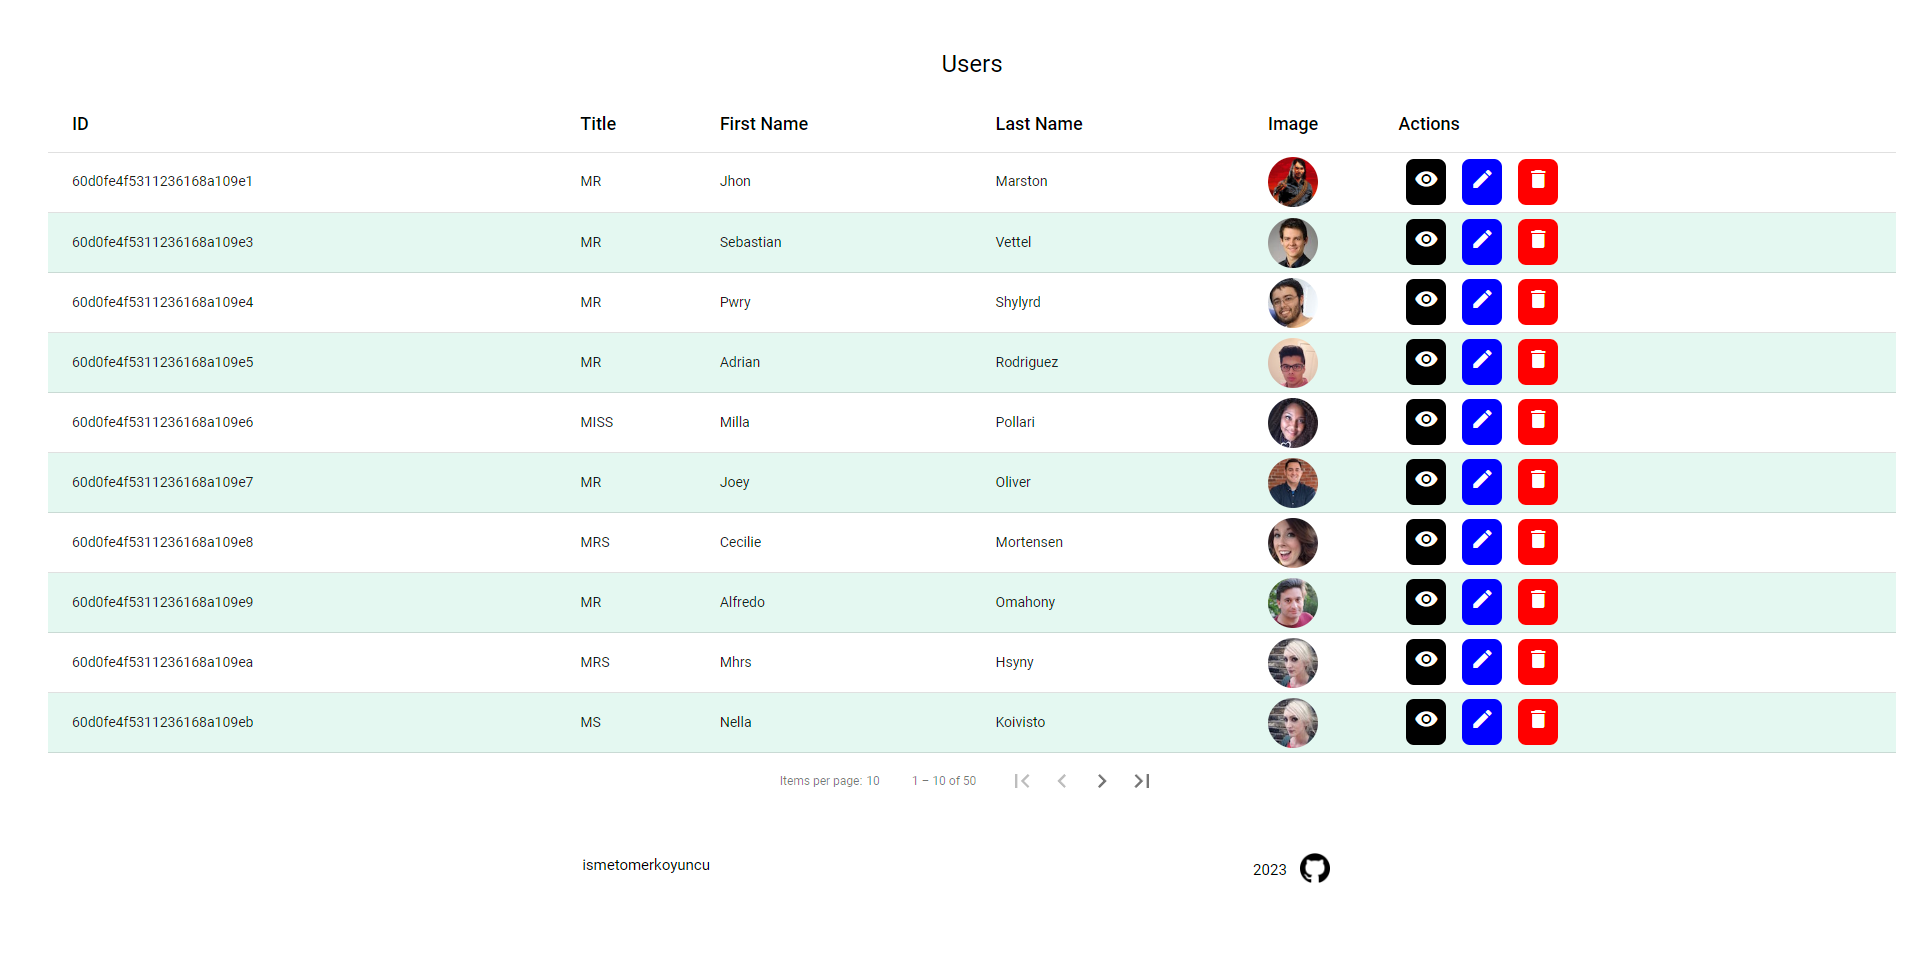
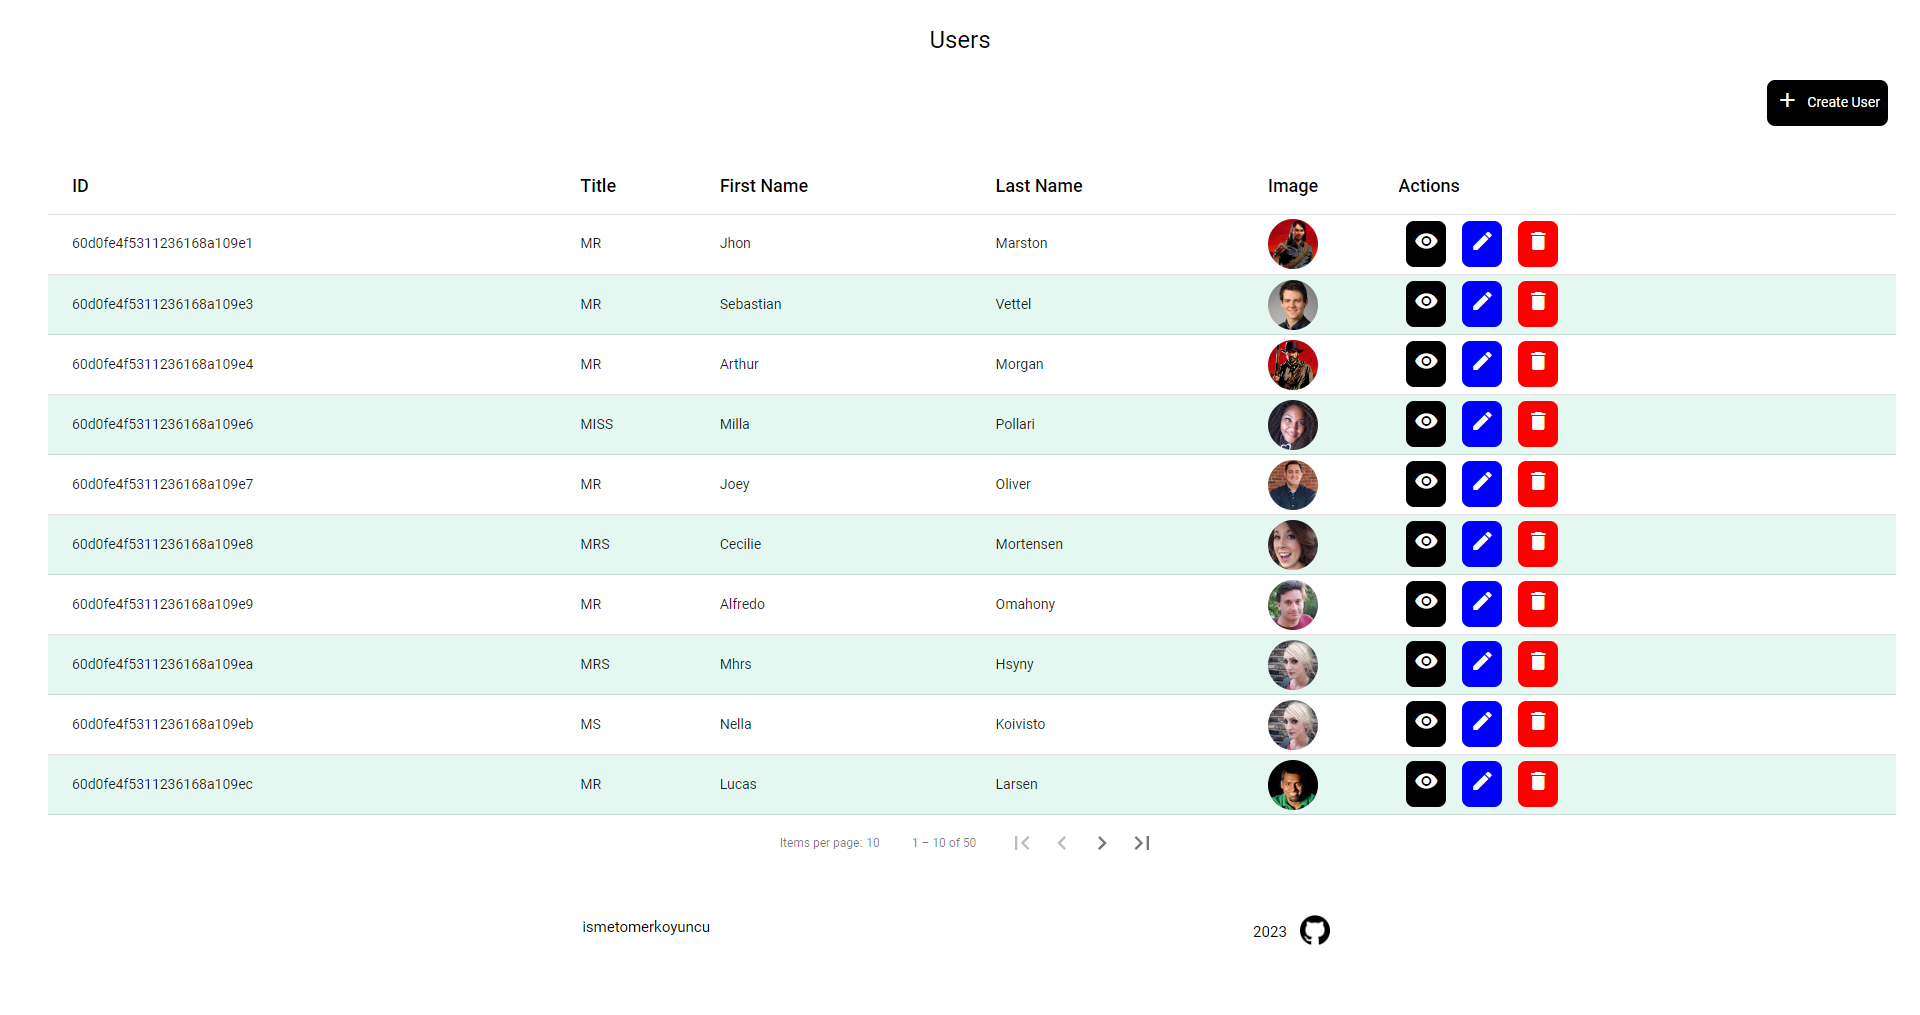
feat: added create-user component

diff --git a/src/app/pages/create-user/create-user.component.html b/src/app/pages/create-user/create-user.component.html
@@ -1,0 +1,73 @@
+<div
+  userForm="userForm"
+  filteredOptions="filteredOptions"
+  class="flex flex-col justify-center items-center p-3 m-3"
+>
+  <div class="form">
+    <h1 class="text-3xl font-bold">
+      Creating user: {{ userForm.firstName }} {{ userForm.lastName }}
+    </h1>
+
+    <mat-form-field class="example-full-width">
+      <mat-label>Email</mat-label>
+      <input matInput placeholder="Email" [(ngModel)]="userForm.email" />
+    </mat-form-field>
+
+    <mat-form-field class="example-full-width">
+      <mat-label>Title</mat-label>
+      <input
+        matInput
+        placeholder="Title"
+        [(ngModel)]="userForm.title"
+        [matAutocomplete]="auto"
+      />
+      <mat-autocomplete #auto="matAutocomplete">
+        <mat-option
+          *ngFor="let option of filteredOptions | async"
+          [value]="option"
+        >
+          {{ option }}
+        </mat-option>
+      </mat-autocomplete>
+    </mat-form-field>
+
+    <mat-form-field class="example-full-width">
+      <mat-label>First Name</mat-label>
+      <input
+        matInput
+        placeholder="First Name"
+        [(ngModel)]="userForm.firstName"
+      />
+    </mat-form-field>
+
+    <mat-form-field class="example-full-width">
+      <mat-label>Last Name</mat-label>
+      <input matInput placeholder="Last Name" [(ngModel)]="userForm.lastName" />
+    </mat-form-field>
+
+    <mat-form-field class="example-full-width">
+      <mat-label>Image</mat-label>
+      <input matInput placeholder="Image" [(ngModel)]="userForm.picture" />
+    </mat-form-field>
+  </div>
+
+  <div class="flex justify-center items-center">
+    <app-button
+      [bgColor]="'blue'"
+      [textColor]="'white'"
+      [text]="'Save Changes'"
+      icon="save"
+      (btnClick)="onSaveChanges()"
+    >
+    </app-button>
+
+    <app-button
+      [bgColor]="'red'"
+      [textColor]="'white'"
+      [text]="'Cancel'"
+      icon="cancel"
+      (btnClick)="onCancelClick()"
+    >
+    </app-button>
+  </div>
+</div>

diff --git a/src/app/pages/create-user/create-user.component.ts b/src/app/pages/create-user/create-user.component.ts
@@ -1,0 +1,64 @@
+import { Component, OnInit } from '@angular/core';
+import { MatDialogRef } from '@angular/material/dialog';
+import { UserService } from 'src/app/services/user.service';
+import { Observable } from 'rxjs';
+import { map, startWith } from 'rxjs/operators';
+import { FormControl, FormsModule, ReactiveFormsModule } from '@angular/forms';
+import { ToastrService } from 'ngx-toastr';
+
+@Component({
+  selector: 'app-create-user',
+  templateUrl: './create-user.component.html',
+  styleUrls: ['./create-user.component.css'],
+})
+export class CreateUserComponent implements OnInit {
+  options: string[] = ['mr', 'miss', 'mrs', 'ms'];
+  myControl = new FormControl('');
+  filteredOptions!: Observable<string[]>;
+
+  userForm: any = {
+    email: '',
+    firstName: '',
+    lastName: '',
+    title: '',
+    picture: '',
+  };
+
+  constructor(
+    private dialogRef: MatDialogRef<CreateUserComponent>,
+    private userService: UserService,
+    private toastr: ToastrService
+  ) {}
+
+  ngOnInit() {
+    this.filteredOptions = this.myControl.valueChanges.pipe(
+      startWith(''),
+      map((value) => this._filter(value || ''))
+    );
+  }
+
+  private _filter(value: string): string[] {
+    const filterValue = value.toLowerCase();
+
+    return this.options.filter((option) =>
+      option.toLowerCase().includes(filterValue)
+    );
+  }
+
+  onSaveChanges(): void {
+    // Implement your save logic here
+    this.userService.createUser(this.userForm).subscribe(() => {
+      this.dialogRef.close();
+      this.toastr.success('User created successfully.', 'User Created');
+    });
+  }
+
+  onCancelClick(): void {
+    this.dialogRef.close();
+  }
+
+  onSaveClick(): void {
+    // Implement your save logic here
+    this.dialogRef.close();
+  }
+}

diff --git a/src/app/app.module.ts b/src/app/app.module.ts
@@ -11,6 +11,8 @@ import { MatTableModule } from '@angular/material/table';
 import { MatIconModule } from '@angular/material/icon';
 import { MatSortModule } from '@angular/material/sort';
 import { ToastrModule } from 'ngx-toastr';
+import { MatDialogModule } from '@angular/material/dialog';
+import { MatAutocompleteModule } from '@angular/material/autocomplete';
 
 import { AppComponent } from './app.component';
 import { ButtonComponent } from './components/button/button.component';
@@ -18,6 +20,7 @@ import { UserComponent } from './pages/user/user.component';
 import { EditUserComponent } from './pages/edit-user/edit-user.component';
 import { ListUsersComponent } from './pages/list-users/list-users.component';
 import { FooterComponent } from './components/footer/footer.component';
+import { CreateUserComponent } from './pages/create-user/create-user.component';
 
 @NgModule({
   declarations: [
@@ -27,6 +30,7 @@ import { FooterComponent } from './components/footer/footer.component';
     ListUsersComponent,
     EditUserComponent,
     FooterComponent,
+    CreateUserComponent,
   ],
   imports: [
     BrowserModule,
@@ -38,8 +42,10 @@ import { FooterComponent } from './components/footer/footer.component';
     MatPaginatorModule,
     MatSortModule,
     MatFormFieldModule,
+    MatAutocompleteModule,
     MatInputModule,
     ReactiveFormsModule,
+    MatDialogModule,
     FormsModule,
     ToastrModule.forRoot(),
   ],

diff --git a/src/app/pages/list-users/list-users.component.ts b/src/app/pages/list-users/list-users.component.ts
@@ -6,6 +6,9 @@ import { UserService } from 'src/app/services/user.service';
 import { User } from 'src/app/interfaces/User';
 import { ToastrService } from 'ngx-toastr';
 
+import { MatDialog } from '@angular/material/dialog';
+import { CreateUserComponent } from '../create-user/create-user.component';
+
 @Component({
   selector: 'app-list-users',
   templateUrl: './list-users.component.html',
@@ -29,7 +32,8 @@ export class ListUsersComponent implements OnInit {
 
   constructor(
     private userService: UserService,
-    private toastr: ToastrService
+    private toastr: ToastrService,
+    public matDialog: MatDialog
   ) {}
 
   ngOnInit(): void {
@@ -38,6 +42,12 @@ export class ListUsersComponent implements OnInit {
       this.dataSource = new MatTableDataSource<User>(this.users);
       this.dataSource.paginator = this.paginator;
       this.dataSource.sort = this.sort;
+    });
+  }
+
+  openUserDialog(): void {
+    this.matDialog.open(CreateUserComponent, {
+      width: '600px',
     });
   }
 

diff --git a/src/app/pages/create-user/create-user.component.spec.ts b/src/app/pages/create-user/create-user.component.spec.ts
@@ -1,0 +1,23 @@
+import { ComponentFixture, TestBed } from '@angular/core/testing';
+
+import { CreateUserComponent } from './create-user.component';
+
+describe('CreateUserComponent', () => {
+  let component: CreateUserComponent;
+  let fixture: ComponentFixture<CreateUserComponent>;
+
+  beforeEach(async () => {
+    await TestBed.configureTestingModule({
+      declarations: [ CreateUserComponent ]
+    })
+    .compileComponents();
+
+    fixture = TestBed.createComponent(CreateUserComponent);
+    component = fixture.componentInstance;
+    fixture.detectChanges();
+  });
+
+  it('should create', () => {
+    expect(component).toBeTruthy();
+  });
+});

diff --git a/src/app/app-routing.module.ts b/src/app/app-routing.module.ts
@@ -3,11 +3,13 @@ import { RouterModule, Routes } from '@angular/router';
 import { UserComponent } from './pages/user/user.component';
 import { EditUserComponent } from './pages/edit-user/edit-user.component';
 import { ListUsersComponent } from './pages/list-users/list-users.component';
+import { CreateUserComponent } from './pages/create-user/create-user.component';
 
 const routes: Routes = [
   { path: '', component: ListUsersComponent },
   { path: 'user/:id', component: UserComponent },
   { path: 'user-edit/:id', component: EditUserComponent },
+  { path: 'user-create', component: CreateUserComponent },
 ];
 
 @NgModule({

diff --git a/src/app/pages/list-users/list-users.component.html b/src/app/pages/list-users/list-users.component.html
@@ -1,5 +1,14 @@
-<div class="flex flex-col justify-center items-center m-3 p-3 w-full">
-  <h1 class="font-bold">Users</h1>
+<h1 class="font-bold text-center">Users</h1>
+<div class="flex justify-end items-center">
+  <app-button
+    [icon]="'add'"
+    [bgColor]="'black'"
+    [textColor]="'white'"
+    [text]="'Create User'"
+    (btnClick)="openUserDialog()"
+  ></app-button>
+</div>
+<div class="flex flex-col items-center m-3 p-3 w-full">
   <table
     mat-table
     [dataSource]="dataSource"

diff --git a/src/app/services/user.service.ts b/src/app/services/user.service.ts
@@ -27,8 +27,8 @@ export class UserService {
     return this.http.get(`${this.baseUrl}/user/${id}`, httpOptions);
   }
 
-  createUser(user: User): Observable<User> {
-    return this.http.post<User>(`${this.baseUrl}/user`, user, httpOptions);
+  createUser(user: object): Observable<any> {
+    return this.http.post(`${this.baseUrl}/user/create`, user, httpOptions);
   }
 
   updateUser(user: User): Observable<User> {

diff --git a/src/app/pages/list-users/list-users.component.css b/src/app/pages/list-users/list-users.component.css
@@ -15,3 +15,7 @@ th.mat-header-cell {
 tr:nth-child(even) {
   background-color: #e4f8f1;
 }
+
+.dialog-custom {
+  border-radius: 10px; /* Adjust the value as needed */
+}

diff --git a/src/styles.css b/src/styles.css
@@ -11,3 +11,7 @@ body {
   margin: 0;
   font-family: Roboto, "Helvetica Neue", sans-serif;
 }
+
+.mat-dialog-container {
+  border-radius: 20px !important;
+}

diff --git a/src/app/pages/create-user/create-user.component.css b/src/app/pages/create-user/create-user.component.css
@@ -1,0 +1,9 @@
+.form {
+  min-width: 150px;
+  max-width: 500px;
+  width: 100%;
+}
+
+.example-full-width {
+  width: 100%;
+}

diff --git a/README.md b/README.md
@@ -21,4 +21,6 @@ Run `ng serve` for a dev server. Navigate to `http://localhost:4200/`. The appli
 
 ![Screenshot](src/assets/ss-2.png)
 
+![Screenshot](src/assets/ss-4.png)
+
 ![Screenshot](src/assets/ss-3.png)
